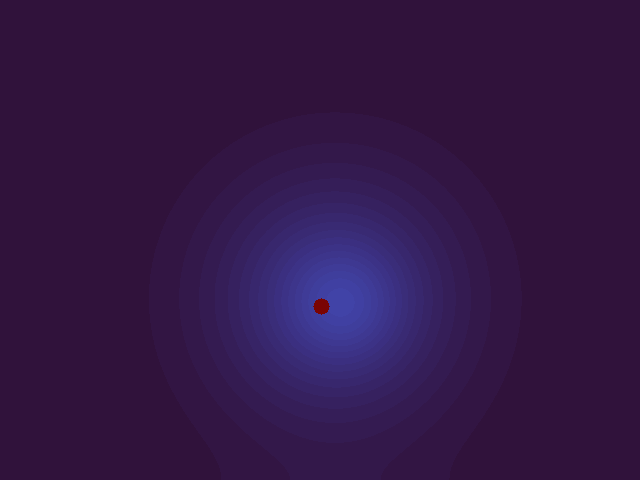
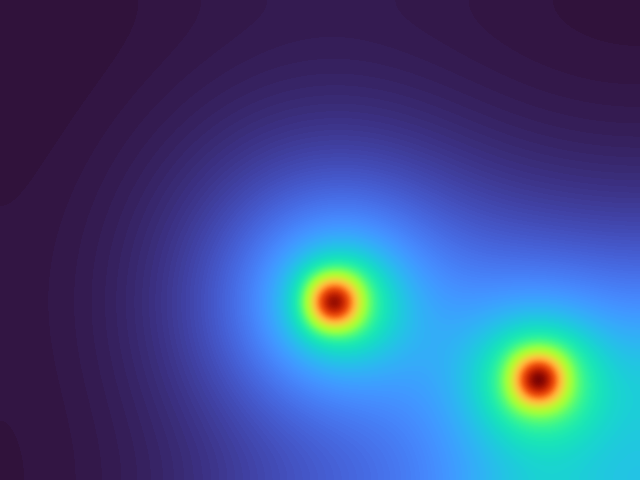
Add live analytics dashboard with zones, customer flow and top visitors

diff --git a/dashboard.html b/dashboard.html
@@ -122,6 +122,17 @@
         </ul>
     </div>
 
+
+    <div class="card">
+        <h2>🧭 Customer Flow</h2>
+
+        <ul>
+        {% for route, count in data.flows.items() %}
+        <li>{{ route }} : {{ count }}</li>
+        {% endfor %}
+         </ul>
+    </div>
+
 </div>
 
 <div class="section">

diff --git a/main.py b/main.py
@@ -46,6 +46,9 @@ from config import (
 
 model = YOLO(MODEL_NAME)
 
+model.overrides["conf"] = 0.4
+model.overrides["iou"] = 0.5
+
 
 cap = cv2.VideoCapture(0)
 ret, frame = cap.read()
@@ -76,6 +79,7 @@ zone_counts = {
     "Shelf A": 0,
     "Checkout": 0
 }
+flow_counts = {}
 
 next_id=0
 
@@ -178,6 +182,10 @@ def run_detector():
         detections = sv.Detections.from_ultralytics(results)
 
         tracked_objects = update_tracker(detections)
+        # Remove invalid tracks
+        valid = tracked_objects.tracker_id != -1
+
+        tracked_objects = tracked_objects[valid]
 
         print(tracked_objects)
        
@@ -215,20 +223,24 @@ def run_detector():
             )
 
 
-
-            
-
             people[pid]["center"] = (cx, cy)
             if zone:
                 previous = people[pid].get("zone")
 
                 if previous != zone:
+
+                    if previous is not None:
+                        route = f"{previous} → {zone}"
+                        flow_counts[route] = flow_counts.get(route, 0) + 1
+
                     people[pid]["zone"] = zone
-                    zone_counts[zone] = zone_counts.get(zone, 0) + 1
 
+                    if "visited" not in people[pid]:
+                        people[pid]["visited"] = set()
 
-
-
+                    if zone not in people[pid]["visited"]:
+                        zone_counts[zone] += 1
+                        people[pid]["visited"].add(zone)
 
             people[pid]["path"].append((int(cx), int(cy)))
             for i in range(1, len(people[pid]["path"])):
@@ -243,7 +255,6 @@ def run_detector():
                 people[pid]["path"].pop(0)
             people[pid]["last"] = now
             
-
             in_zone=inside_zone(cx,cy,ZONE)
 
             if in_zone and not people[pid]["inside"]:
@@ -346,8 +357,8 @@ def run_detector():
                     count += 1
 
             zone_live[name] = count
-
-        live_metrics["zones"] = zone_live
+            live_metrics["zones"] = zone_live
+        
 
 
 
@@ -374,25 +385,10 @@ def run_detector():
         peak_occupancy,
         dwell_times
             )
-
             save_hourly_graph()
-
-            cv2.imwrite(
-            "static/heatmap.png",
-            get_heatmap()
-           )
 
             last_dashboard_update = time.time()
 
-
-
-
-        live_metrics["avg_dwell"] = (
-            sum(dwell_times) / len(dwell_times)
-            if dwell_times else 0
-        )
-
-# Temporary until we improve the calculation
         metrics = calculate_metrics(
         people,
         enter_count,
@@ -404,7 +400,7 @@ def run_detector():
         key=lambda x: x[1]["total_time"],
         reverse=True
         )[:5]
-
+        live_metrics["flows"] = flow_counts
         live_metrics["top_visitors"] = [
             {
                 "id": pid,
@@ -426,7 +422,7 @@ def run_detector():
 
         live_metrics["avg_dwell"] = metrics["avg_dwell"]
         live_metrics["risk_score"] = metrics["risk"]
-        live_metrics["zones"] = zone_counts
+        
         live_metrics["recommendation"] = get_recommendation(live_metrics)
      
 

diff --git a/dashboard.py b/dashboard.py
@@ -54,7 +54,8 @@ def start_dashboard(html):
 
             "top_visitors": live_metrics.get("top_visitors", []),
 
-            "zones": live_metrics.get("zones", {})
+            "zones": live_metrics.get("zones", {}),
+            "flows": live_metrics.get("flows", {})
         }
 
         return render_template_string(
